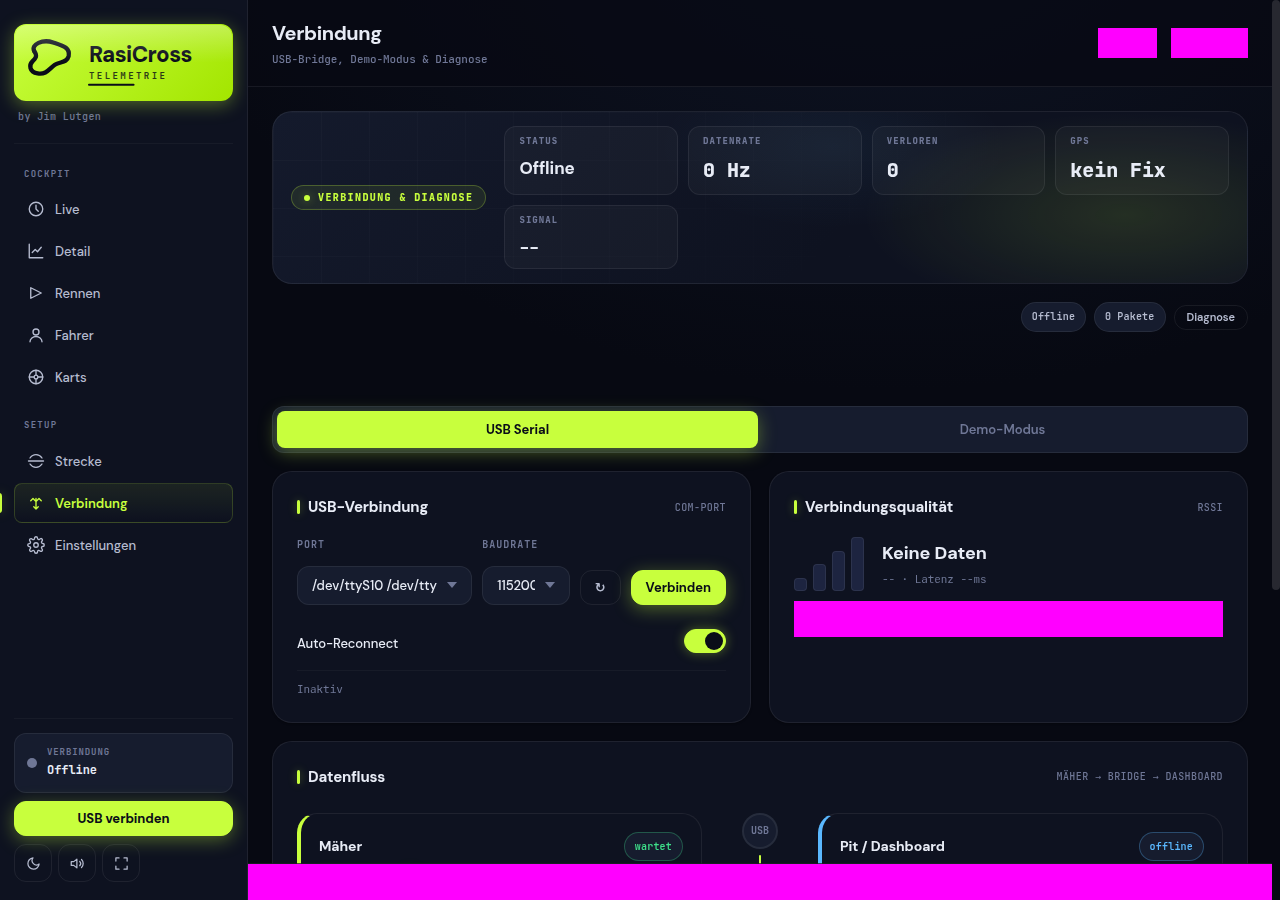
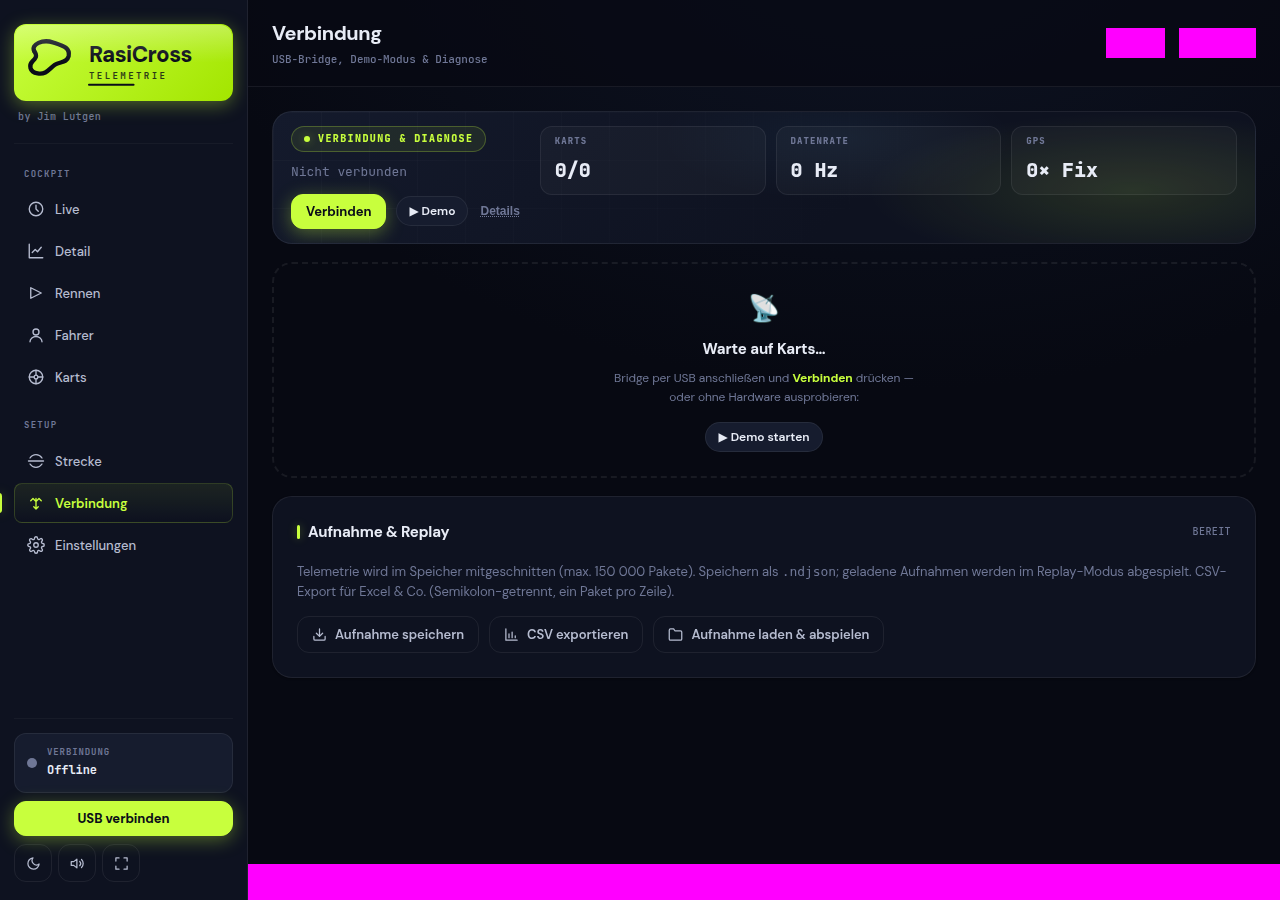
test(e2e): Baselines tab-connection/demo-karts/demo-live deterministisch neu eingefroren; demo-connection wartet auf ok-Ampel (Phase 56b)
Die drei Actuals stammen aus CI-Lauf 29663121062 und sind zwischen
Attempt und Retry byte-identisch (Determinismus-Beweis nach Pinning-
und source=demo-Fix). demo-connection wird noch nicht eingefroren:
der Shot fiel in den Erst-Render-Zustand des Hz-Fensters (0 Hz ->
alle Karten schwach mit Datenrate-Hinweis); der Test wartet jetzt
auf die ok-Ampel aller drei Karten.

Claude-Session: https://claude.ai/code/session_01HxeZiHkjGii8N5pWAXWFfS

diff --git a/e2e/screens.spec.js b/e2e/screens.spec.js
@@ -189,10 +189,12 @@ test.describe('Demo-Zustand', () => {
       RasiTest.state.activeKartMac = m;
     });
     await ctx.page.click('.nav-item[data-tab="connection"]');
-    // Grid gefuellt: 3 Demo-Kart-Karten vom 1-Hz-Renderer (conn-ui.js);
-    // Sidebar im eingeschwungenen Demo-Zustand.
+    // Grid gefuellt UND eingeschwungen: der allererste Render zeigt 0 Hz
+    // (frisches Paketzaehler-Fenster) -> alle Karten kurz 'schwach' mit
+    // Hinweis 'Datenrate niedrig' -- auf ok-Ampel warten, sonst friert der
+    // Shot den Boot-Zustand ein (CI-Fund Phase 56b).
     await ctx.page.waitForFunction(() =>
-      document.querySelectorAll('#connGrid .cc-card[data-mac]').length >= 3
+      document.querySelectorAll('#connGrid .cc-card.ok[data-mac]').length >= 3
       && document.querySelector('#sideConnText').textContent === 'Demo');
     await ctx.page.mouse.move(0, 0);
     // Dynamische Wertefelder maskieren (RSSI-Jitter, Paketalter, Summen-Hz).